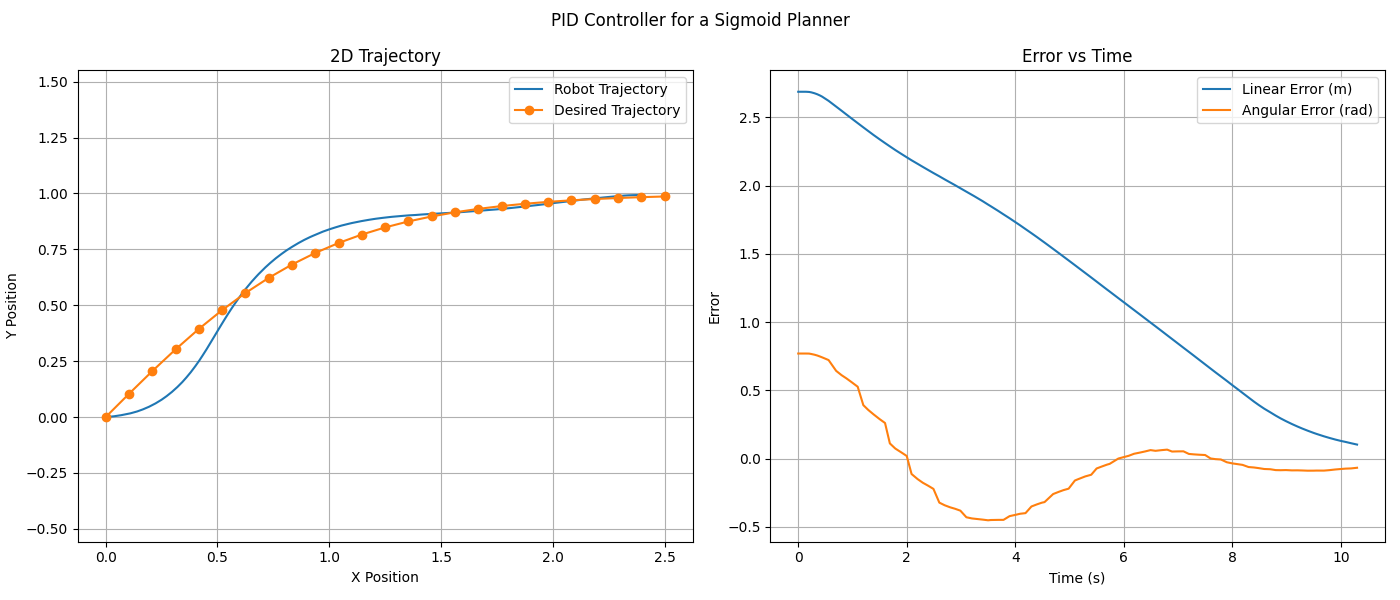
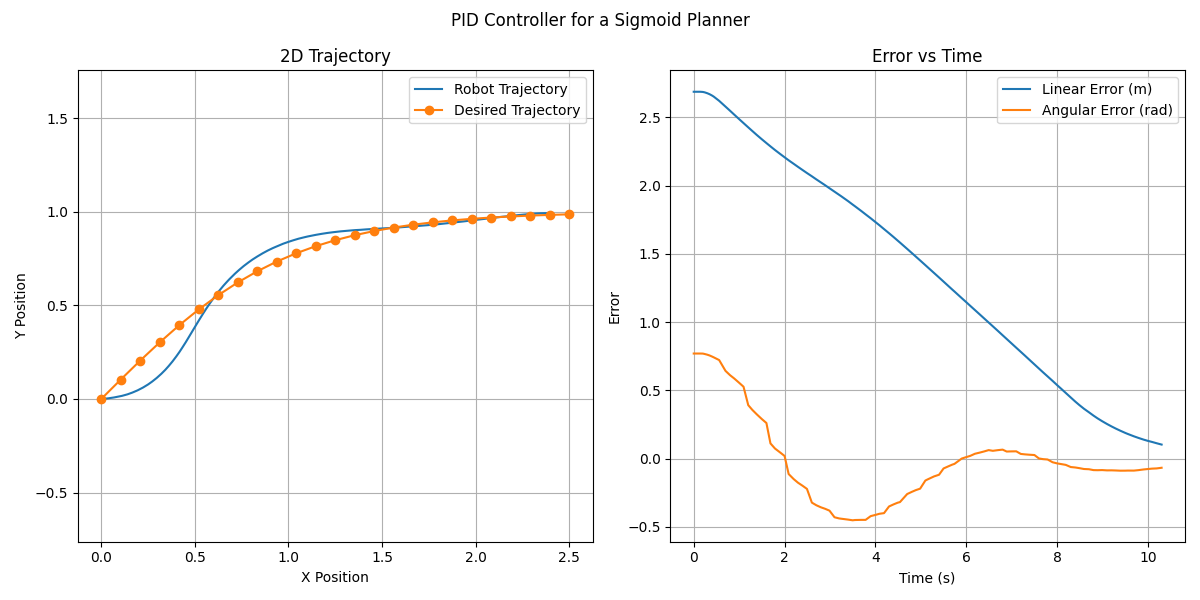
comments

diff --git a/LabTwo/decisions.py b/LabTwo/decisions.py
@@ -30,14 +30,14 @@ class decision_maker(Node):
 
         super().__init__("decision_maker")
 
-        #TODO Part 4: Create a publisher for the topic responsible for robot's motion
+        #Create a publisher for the topic responsible for robot's motion
         self.publisher= self.create_publisher(publisher_msg, publishing_topic, qos_publisher)
 
         publishing_period=1/rate
         
         # Instantiate the controller
-        # TODO Part 5: Tune your parameters here
-    
+        #Parameter tuning
+        #Based on the type of motion, the controller is instantiated with different parameters
         if motion_type == POINT_PLANNER:
             # self.controller=controller(klp=0.4, kap=0.9, controller=P)
             # self.controller=controller(klp=0.4, klv=0.3, kap=0.9, kav=0.2, controller=PD)
@@ -68,7 +68,7 @@ class decision_maker(Node):
 
     def timerCallback(self):
         
-        # TODO Part 3: Run the localization node
+        #Run the localization node
         spin_once(self.localizer)
         currPos = self.localizer.getPose()
 
@@ -78,7 +78,7 @@ class decision_maker(Node):
 
         vel_msg=Twist()
         
-        # TODO Part 3: Check if you reached the goal
+        # Check if you reached the goal
         if type(self.goal) == list: # If its a trajectory 
             currLinErr = abs(calculate_linear_error(currPos,self.goal[-1]))
             currAngErr = abs(calculate_angular_error(currPos,self.goal[-1]))
@@ -98,7 +98,7 @@ class decision_maker(Node):
             self.controller.PID_angular.logger.save_log()
             self.controller.PID_linear.logger.save_log()
             
-            #TODO Part 3: exit the spin
+            #Exit the spin
             raise SystemExit 
 
         
@@ -114,13 +114,13 @@ def main(args=None):
     
     init()
 
-    # TODO Part 3: You migh need to change the QoS profile based on whether you're using the real robot or in simulation.
-    # Remember to define your QoS profile based on the information available in "ros2 topic info /odom --verbose" as explained in Tutorial 3
+    #You might need to change the QoS profile based on whether you're using the real robot or in simulation.
+    # Defining QoS profile based on the information available in "ros2 topic info /odom --verbose" as explained in Tutorial 3
     
     odom_qos=QoSProfile(reliability=2, durability=2, history=1, depth=10)
     
 
-    # TODO Part 4: instantiate the decision_maker with the proper parameters for moving the robot
+    #Instantiate the decision_maker with the proper parameters for moving the robot
     if args.motion.lower() == "point":
         DM=decision_maker(Twist,'/cmd_vel',odom_qos,[-1,-1],10,POINT_PLANNER)
     elif args.motion.lower() == "trajectory":

diff --git a/LabTwo/plot_errors.py b/LabTwo/plot_errors.py
@@ -2,7 +2,7 @@ import matplotlib.pyplot as plt
 from utilities import FileReader
 import numpy as np
 
-
+#Functions to plot the reference trajectory if applicable
 def parabola_motion(start_x, start_y):
     xs = np.linspace(0 + start_x, 1.5 + start_x, 10)
     ys = [(x - start_x) ** 2 + start_y for x in xs]
@@ -23,10 +23,12 @@ motion_types = {
     'Sigmoid': sigmoid_motion
 }
 
+#Plotting for trajectories 
 def plot_trajectory(filename, motion_type, headers, values, time_list, axes):
     start_x = 0
     start_y = 0
     xs, ys = motion_types[motion_type](start_x, start_y)
+    #Plotting to different subplots depending on the filename
     if "robot_pose.csv" in filename:
 
         axes[0].plot([lin[0] for lin in values], [lin[1] for lin in values])
@@ -35,8 +37,9 @@ def plot_trajectory(filename, motion_type, headers, values, time_list, axes):
         axes[0].set_xlabel("X Position")
         axes[0].set_ylabel("Y Position")
         axes[0].legend(["Robot Trajectory", "Desired Trajectory"])
-        axes[0].grid()
         axes[0].axis('equal')
+        axes[0].grid()
+        
 
     elif "linear" in filename: 
         axes[1].plot(time_list, [lin[0] for lin in values])
@@ -51,11 +54,12 @@ def plot_trajectory(filename, motion_type, headers, values, time_list, axes):
 
     
 
-
+#Plotting for point motion 
 def plot_point(filename, motion_type, headers, values, time_list, axes): 
     start_x = 0
     start_y = 0
     xs, ys = motion_types[motion_type](start_x, start_y)
+    #Plotting to different subplots depending on the filename 
     if "robot_pose.csv" in filename:
 
         axes[0,0].plot([lin[0] for lin in values], [lin[1] for lin in values])
@@ -126,7 +130,8 @@ def plot_errors(filename, motion_type, axes):
     #Change for sim
     # start_x = -2
     # start_y = -0.5
-
+    
+    #Calling the plotting function depending on the motion type
     if motion_type == "Point":
         plot_point(filename, motion_type, headers, values, time_list, axes)
     else: 
@@ -141,6 +146,7 @@ if __name__=="__main__":
 
     parser = argparse.ArgumentParser(description='Process some files.')
     parser.add_argument('--files', nargs='+', required=True, help='List of files to process')
+    #Added a motion argument to help with plotting depending on the type of motion 
     parser.add_argument('--motion', required=True, help='Motion type')
 
     args = parser.parse_args()
@@ -154,9 +160,9 @@ if __name__=="__main__":
 
 
     if motion_type == "Point":
-        fig, axes = plt.subplots(2,2, figsize=(7,7))
+        fig, axes = plt.subplots(2,2, figsize=(8,8))
     else: 
-        fig, axes = plt.subplots(1,2, figsize=(14,6))
+        fig, axes = plt.subplots(1,2, figsize=(12,6))
 
 
     for filename in filenames:

diff --git a/LabTwo/localization.py b/LabTwo/localization.py
@@ -16,8 +16,8 @@ class localization(Node):
 
         super().__init__("localizer")
         
-        # TODO Part 3: Define the QoS profile variable based on whether you are using the simulation (Turtlebot 3 Burger) or the real robot (Turtlebot 4)
-        # Remember to define your QoS profile based on the information available in "ros2 topic info /odom --verbose" as explained in Tutorial 3
+        #Define the QoS profile variable based on whether you are using the simulation (Turtlebot 3 Burger) or the real robot (Turtlebot 4)
+        #Defining QoS profile based on the information available in "ros2 topic info /odom --verbose" as explained in Tutorial 3
 
         odom_qos=QoSProfile(reliability=2, durability=2, history=1, depth=10)
         
@@ -33,7 +33,7 @@ class localization(Node):
     
     def odom_callback(self, pose_msg: odom):
         
-        # TODO Part 3: Read x,y, theta, and record the stamp
+        #Read x,y, theta, and record the stamp
         odom_timestamp = pose_msg.header.stamp # gets timestamp
         odom_quat = pose_msg.pose.pose.orientation # sets quat as orientation
         odom_th = euler_from_quaternion(odom_quat) # gets theta position
@@ -46,7 +46,7 @@ class localization(Node):
     def getPose(self):
         return self.pose
 
-# TODO Part 3
+
 # Here put a guard that makes the node run, ONLY when run as a main thread!
 # This is to make sure this node functions right before using it in decision.py
     

diff --git a/LabTwo/controller.py b/LabTwo/controller.py
@@ -12,9 +12,10 @@ class controller:
     
     
     # Default gains of the controller for linear and angular motions
+    #Added a controller type to the constructor to allow for P, PI, PD, and PID controllers
     def __init__(self, klp=0.2, klv=0.2, kli=0.2, kap=0.2, kav=0.2, kai=0.2, controller=0):
         
-        # TODO Part 5 and 6: Modify the below lines to test your PD, PI, and PID controller
+        #Testing PD, PI, and PID controller
         self.PID_linear=PID_ctrl(controller, klp, klv, kli, filename_="linear.csv")
         self.PID_angular=PID_ctrl(controller, kap, kav, kai, filename_="angular.csv")
 
@@ -29,7 +30,7 @@ class controller:
         linear_vel=self.PID_linear.update([e_lin, pose[3]], status)
         angular_vel=self.PID_angular.update([e_ang, pose[3]], status)
         
-        # TODO Part 4: Add saturation limits for the robot linear and angular velocity
+        #Adding saturation limits 
 
         #Max for robot (in lab)
         # linear_max = 0.31 
@@ -66,7 +67,7 @@ class trajectoryController(controller):
         linear_vel=self.PID_linear.update([e_lin, pose[3]], status)
         angular_vel=self.PID_angular.update([e_ang, pose[3]], status) 
 
-        # TODO Part 5: Add saturation limits for the robot linear and angular velocity
+        #Adding saturation limits
 
         #Max for robot (in lab)
         linear_max = 0.31 

diff --git a/LabTwo/pid.py b/LabTwo/pid.py
@@ -66,7 +66,7 @@ class PID_ctrl:
             # use constant dt if the messages arrived inconsistent
             # for example dt=0.1 overwriting the calculation          
             
-            # TODO Part 5: calculate the error dot 
+            #calculate the error dot 
             error_dot += (self.history[i][0] - self.history[i-1][0]) / dt
 
             
@@ -76,21 +76,21 @@ class PID_ctrl:
         # Compute the error integral
         sum_=0
         for hist in self.history:
-            # TODO Part 5: Gather the integration
+            #Gather the integration
             sum_ += hist[0]
             pass
         
         error_int=sum_*dt_avg
         
-       # TODO Part 4: Log your errors
+       #Log your errors
         errors = [latest_error,error_dot,error_int,stamp]
         self.logger.log_values(errors)
         
-        # TODO Part 4: Implement the control law of P-controller
+        #Implement the control law of P-controller
         if self.type == P:
             return self.kp*latest_error
         
-        # TODO Part 5: Implement the control law corresponding to each type of controller
+        #Implement the control law corresponding to each type of controller
         elif self.type == PD:
             return self.kp * latest_error + self.kv * error_dot
         

diff --git a/LabTwo/utilities.py b/LabTwo/utilities.py
@@ -83,7 +83,7 @@ class FileReader:
     
     
 
-# TODO Part 3: Implement the conversion from Quaternion to Euler Angles
+#Implement the conversion from Quaternion to Euler Angles
 def euler_from_quaternion(quat):
     """
     Convert quaternion (w in last place) to euler roll, pitch, yaw.
@@ -109,7 +109,7 @@ def euler_from_quaternion(quat):
     return yaw
 
 
-#TODO Part 4: Implement the calculation of the linear error
+#Implement the calculation of the linear error
 def calculate_linear_error(current_pose, goal_pose):
         
     # Compute the linear error in x and y
@@ -121,7 +121,7 @@ def calculate_linear_error(current_pose, goal_pose):
 
     return error_linear
 
-#TODO Part 4: Implement the calculation of the angular error
+#Implement the calculation of the angular error
 def calculate_angular_error(current_pose, goal_pose):
 
     # Compute the linear error in x and y

diff --git a/LabTwo/planner.py b/LabTwo/planner.py
@@ -31,7 +31,7 @@ class planner:
         y = goalPoint[1]
         return x, y
 
-    # TODO Part 6: Implement the trajectories here
+    #Implement the trajectories 
     def trajectory_planner(self):
         points_list = []
 
@@ -39,6 +39,7 @@ class planner:
         start_x = 0
         start_y = 0
 
+        #Use in Sim 
         # start_x = -2
         # start_y = -0.5
 
